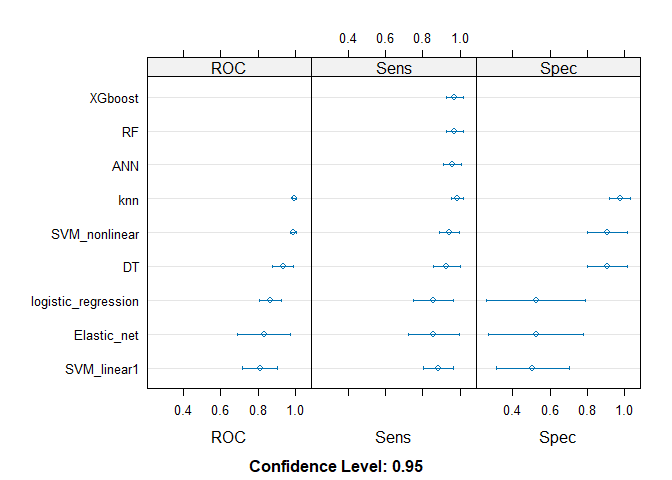
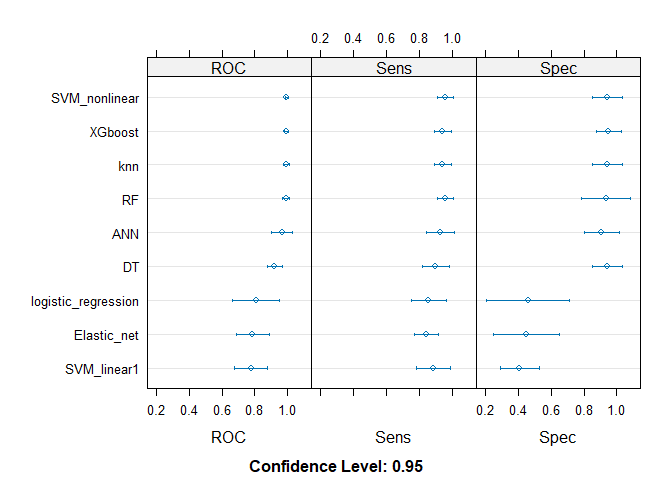
the good one

diff --git a/ThirdSession/Readme.md b/ThirdSession/Readme.md
@@ -189,13 +189,13 @@ call the packages:
     ## Sepal.Length  Sepal.Width Petal.Length  Petal.Width      Species 
     ##    "numeric"    "numeric"    "numeric"    "numeric"     "factor"
 
-    ##   Sepal.Length Sepal.Width Petal.Length Petal.Width Species
-    ## 1          5.1         3.5          1.4         0.2      No
-    ## 3          4.7         3.2          1.3         0.2      No
-    ## 5          5.0         3.6          1.4         0.2      No
-    ## 6          5.4         3.9          1.7         0.4      No
-    ## 7          4.6         3.4          1.4         0.3      No
-    ## 8          5.0         3.4          1.5         0.2      No
+    ##    Sepal.Length Sepal.Width Petal.Length Petal.Width Species
+    ## 4           4.6         3.1          1.5         0.2      No
+    ## 5           5.0         3.6          1.4         0.2      No
+    ## 6           5.4         3.9          1.7         0.4      No
+    ## 7           4.6         3.4          1.4         0.3      No
+    ## 8           5.0         3.4          1.5         0.2      No
+    ## 12          4.8         3.4          1.6         0.2      No
 
     ## [1] "No"  "Yes"
 
@@ -272,40 +272,60 @@ ranging from 0 to 0.1 in 0.01 increments.
     ## Number of resamples: 10 
     ## 
     ## ROC 
-    ##                          Min.   1st Qu.    Median      Mean   3rd Qu. Max. NA's
-    ## logistic_regression 0.7619048 0.8125000 0.8571429 0.8642857 0.8839286    1    0
-    ## Elastic_net         0.4642857 0.7113095 0.8928571 0.8309524 1.0000000    1    0
-    ## knn                 0.9523810 1.0000000 1.0000000 0.9934524 1.0000000    1    0
-    ## DT                  0.7619048 0.9151786 0.9404762 0.9339286 1.0000000    1    0
-    ## RF                  1.0000000 1.0000000 1.0000000 1.0000000 1.0000000    1    0
-    ## XGboost             1.0000000 1.0000000 1.0000000 1.0000000 1.0000000    1    0
-    ## SVM_linear1         0.6428571 0.7142857 0.7500000 0.8095238 0.9404762    1    0
-    ## SVM_nonlinear       0.9523810 0.9732143 1.0000000 0.9880952 1.0000000    1    0
-    ## ANN                 1.0000000 1.0000000 1.0000000 1.0000000 1.0000000    1    0
+    ##                          Min.   1st Qu.    Median      Mean   3rd Qu.      Max.
+    ## logistic_regression 0.3214286 0.7916667 0.8333333 0.8071429 0.9196429 1.0000000
+    ## Elastic_net         0.4642857 0.7321429 0.8154762 0.7880952 0.8571429 1.0000000
+    ## knn                 0.9285714 1.0000000 1.0000000 0.9928571 1.0000000 1.0000000
+    ## DT                  0.8333333 0.8616071 0.9285714 0.9208333 0.9821429 1.0000000
+    ## RF                  0.9047619 1.0000000 1.0000000 0.9904762 1.0000000 1.0000000
+    ## XGboost             0.9642857 1.0000000 1.0000000 0.9928571 1.0000000 1.0000000
+    ## SVM_linear1         0.6071429 0.6250000 0.8095238 0.7761905 0.8928571 0.9642857
+    ## SVM_nonlinear       0.9523810 1.0000000 1.0000000 0.9952381 1.0000000 1.0000000
+    ## ANN                 0.7142857 1.0000000 1.0000000 0.9666667 1.0000000 1.0000000
+    ##                     NA's
+    ## logistic_regression    0
+    ## Elastic_net            0
+    ## knn                    0
+    ## DT                     0
+    ## RF                     0
+    ## XGboost                0
+    ## SVM_linear1            0
+    ## SVM_nonlinear          0
+    ## ANN                    0
     ## 
     ## Sens 
-    ##                          Min.   1st Qu.    Median      Mean 3rd Qu. Max. NA's
-    ## logistic_regression 0.5714286 0.7500000 0.8571429 0.8571429       1    1    0
-    ## Elastic_net         0.4285714 0.7500000 0.9285714 0.8571429       1    1    0
-    ## knn                 0.8571429 1.0000000 1.0000000 0.9857143       1    1    0
-    ## DT                  0.7142857 0.8571429 1.0000000 0.9285714       1    1    0
-    ## RF                  0.8571429 1.0000000 1.0000000 0.9714286       1    1    0
-    ## XGboost             0.8571429 1.0000000 1.0000000 0.9714286       1    1    0
-    ## SVM_linear1         0.7142857 0.8571429 0.8571429 0.8857143       1    1    0
-    ## SVM_nonlinear       0.8571429 0.8571429 1.0000000 0.9428571       1    1    0
-    ## ANN                 0.8571429 0.8928571 1.0000000 0.9571429       1    1    0
+    ##                          Min.   1st Qu.    Median      Mean   3rd Qu. Max. NA's
+    ## logistic_regression 0.7142857 0.7142857 0.8571429 0.8571429 1.0000000    1    0
+    ## Elastic_net         0.7142857 0.7500000 0.8571429 0.8428571 0.8571429    1    0
+    ## knn                 0.8571429 0.8571429 1.0000000 0.9428571 1.0000000    1    0
+    ## DT                  0.7142857 0.8571429 0.9285714 0.9000000 1.0000000    1    0
+    ## RF                  0.8571429 0.8928571 1.0000000 0.9571429 1.0000000    1    0
+    ## XGboost             0.8571429 0.8571429 1.0000000 0.9428571 1.0000000    1    0
+    ## SVM_linear1         0.5714286 0.8571429 0.9285714 0.8857143 1.0000000    1    0
+    ## SVM_nonlinear       0.8571429 0.8928571 1.0000000 0.9571429 1.0000000    1    0
+    ## ANN                 0.7142857 0.8928571 1.0000000 0.9285714 1.0000000    1    0
     ## 
     ## Spec 
-    ##                          Min.   1st Qu.    Median      Mean   3rd Qu. Max. NA's
-    ## logistic_regression 0.0000000 0.2708333 0.5833333 0.5250000 0.7500000    1    0
-    ## Elastic_net         0.0000000 0.3125000 0.5833333 0.5250000 0.6666667    1    0
-    ## knn                 0.7500000 1.0000000 1.0000000 0.9750000 1.0000000    1    0
-    ## DT                  0.6666667 0.8125000 1.0000000 0.9083333 1.0000000    1    0
-    ## RF                  1.0000000 1.0000000 1.0000000 1.0000000 1.0000000    1    0
-    ## XGboost             1.0000000 1.0000000 1.0000000 1.0000000 1.0000000    1    0
-    ## SVM_linear1         0.2500000 0.3333333 0.4166667 0.5083333 0.5000000    1    0
-    ## SVM_nonlinear       0.6666667 0.8125000 1.0000000 0.9083333 1.0000000    1    0
-    ## ANN                 1.0000000 1.0000000 1.0000000 1.0000000 1.0000000    1    0
+    ##                          Min.   1st Qu.    Median      Mean 3rd Qu.      Max.
+    ## logistic_regression 0.0000000 0.2708333 0.4166667 0.4583333   0.625 1.0000000
+    ## Elastic_net         0.0000000 0.2708333 0.4166667 0.4500000   0.625 1.0000000
+    ## knn                 0.6666667 1.0000000 1.0000000 0.9416667   1.000 1.0000000
+    ## DT                  0.6666667 1.0000000 1.0000000 0.9416667   1.000 1.0000000
+    ## RF                  0.3333333 1.0000000 1.0000000 0.9333333   1.000 1.0000000
+    ## XGboost             0.7500000 1.0000000 1.0000000 0.9500000   1.000 1.0000000
+    ## SVM_linear1         0.2500000 0.2708333 0.3333333 0.4083333   0.500 0.6666667
+    ## SVM_nonlinear       0.6666667 1.0000000 1.0000000 0.9416667   1.000 1.0000000
+    ## ANN                 0.6666667 0.8125000 1.0000000 0.9083333   1.000 1.0000000
+    ##                     NA's
+    ## logistic_regression    0
+    ## Elastic_net            0
+    ## knn                    0
+    ## DT                     0
+    ## RF                     0
+    ## XGboost                0
+    ## SVM_linear1            0
+    ## SVM_nonlinear          0
+    ## ANN                    0
 
 ![](Readme_files/figure-gfm/unnamed-chunk-11-1.png)<!-- -->
 
@@ -313,46 +333,55 @@ ranging from 0 to 0.1 in 0.01 increments.
 
 ## ROC curve
 
-    ##  [1] No  No  No  No  No  No  No  No  No  No  No  No  Yes Yes Yes Yes Yes Yes Yes
-    ## [20] Yes Yes Yes Yes Yes Yes Yes Yes No  No  No  No  No  No  No  No  No  No  No 
+    ##  [1] No  No  No  No  No  No  No  No  No  No  No  No  No  No  No  No  No  No  No 
+    ## [20] No  No  No  Yes Yes Yes Yes Yes Yes Yes Yes Yes Yes Yes Yes Yes Yes Yes No 
     ## [39] No  No  No  No  No  No  No 
     ## Levels: No Yes
 
     ##                
     ## predictions_svm No Yes
-    ##             No  30   3
-    ##             Yes  0  12
+    ##             No  30   2
+    ##             Yes  0  13
 
     ## Confusion Matrix and Statistics
     ## 
     ##           Reference
     ## Prediction No Yes
-    ##        No  30   3
-    ##        Yes  0  12
-    ##                                          
-    ##                Accuracy : 0.9333         
-    ##                  95% CI : (0.8173, 0.986)
-    ##     No Information Rate : 0.6667         
-    ##     P-Value [Acc > NIR] : 2.435e-05      
-    ##                                          
-    ##                   Kappa : 0.8421         
-    ##                                          
-    ##  Mcnemar's Test P-Value : 0.2482         
-    ##                                          
-    ##             Sensitivity : 1.0000         
-    ##             Specificity : 0.8000         
-    ##          Pos Pred Value : 0.9091         
-    ##          Neg Pred Value : 1.0000         
-    ##              Prevalence : 0.6667         
-    ##          Detection Rate : 0.6667         
-    ##    Detection Prevalence : 0.7333         
-    ##       Balanced Accuracy : 0.9000         
-    ##                                          
-    ##        'Positive' Class : No             
+    ##        No  30   2
+    ##        Yes  0  13
+    ##                                           
+    ##                Accuracy : 0.9556          
+    ##                  95% CI : (0.8485, 0.9946)
+    ##     No Information Rate : 0.6667          
+    ##     P-Value [Acc > NIR] : 3.227e-06       
+    ##                                           
+    ##                   Kappa : 0.8966          
+    ##                                           
+    ##  Mcnemar's Test P-Value : 0.4795          
+    ##                                           
+    ##             Sensitivity : 1.0000          
+    ##             Specificity : 0.8667          
+    ##          Pos Pred Value : 0.9375          
+    ##          Neg Pred Value : 1.0000          
+    ##              Prevalence : 0.6667          
+    ##          Detection Rate : 0.6667          
+    ##    Detection Prevalence : 0.7111          
+    ##       Balanced Accuracy : 0.9333          
+    ##                                           
+    ##        'Positive' Class : No              
     ## 
 
     ##  [1] No No No No No No No No No No
     ## Levels: No Yes
+
+    ## Setting levels: control = No, case = Yes
+
+    ## Setting direction: controls < cases
+
+    ## Warning in ci.auc.roc(roc, ...): ci.auc() of a ROC curve with AUC == 1 is
+    ## always 1-1 and can be misleading.
+
+![](Readme_files/figure-gfm/unnamed-chunk-13-1.png)<!-- -->
 
 ## Random Over sampling
 
